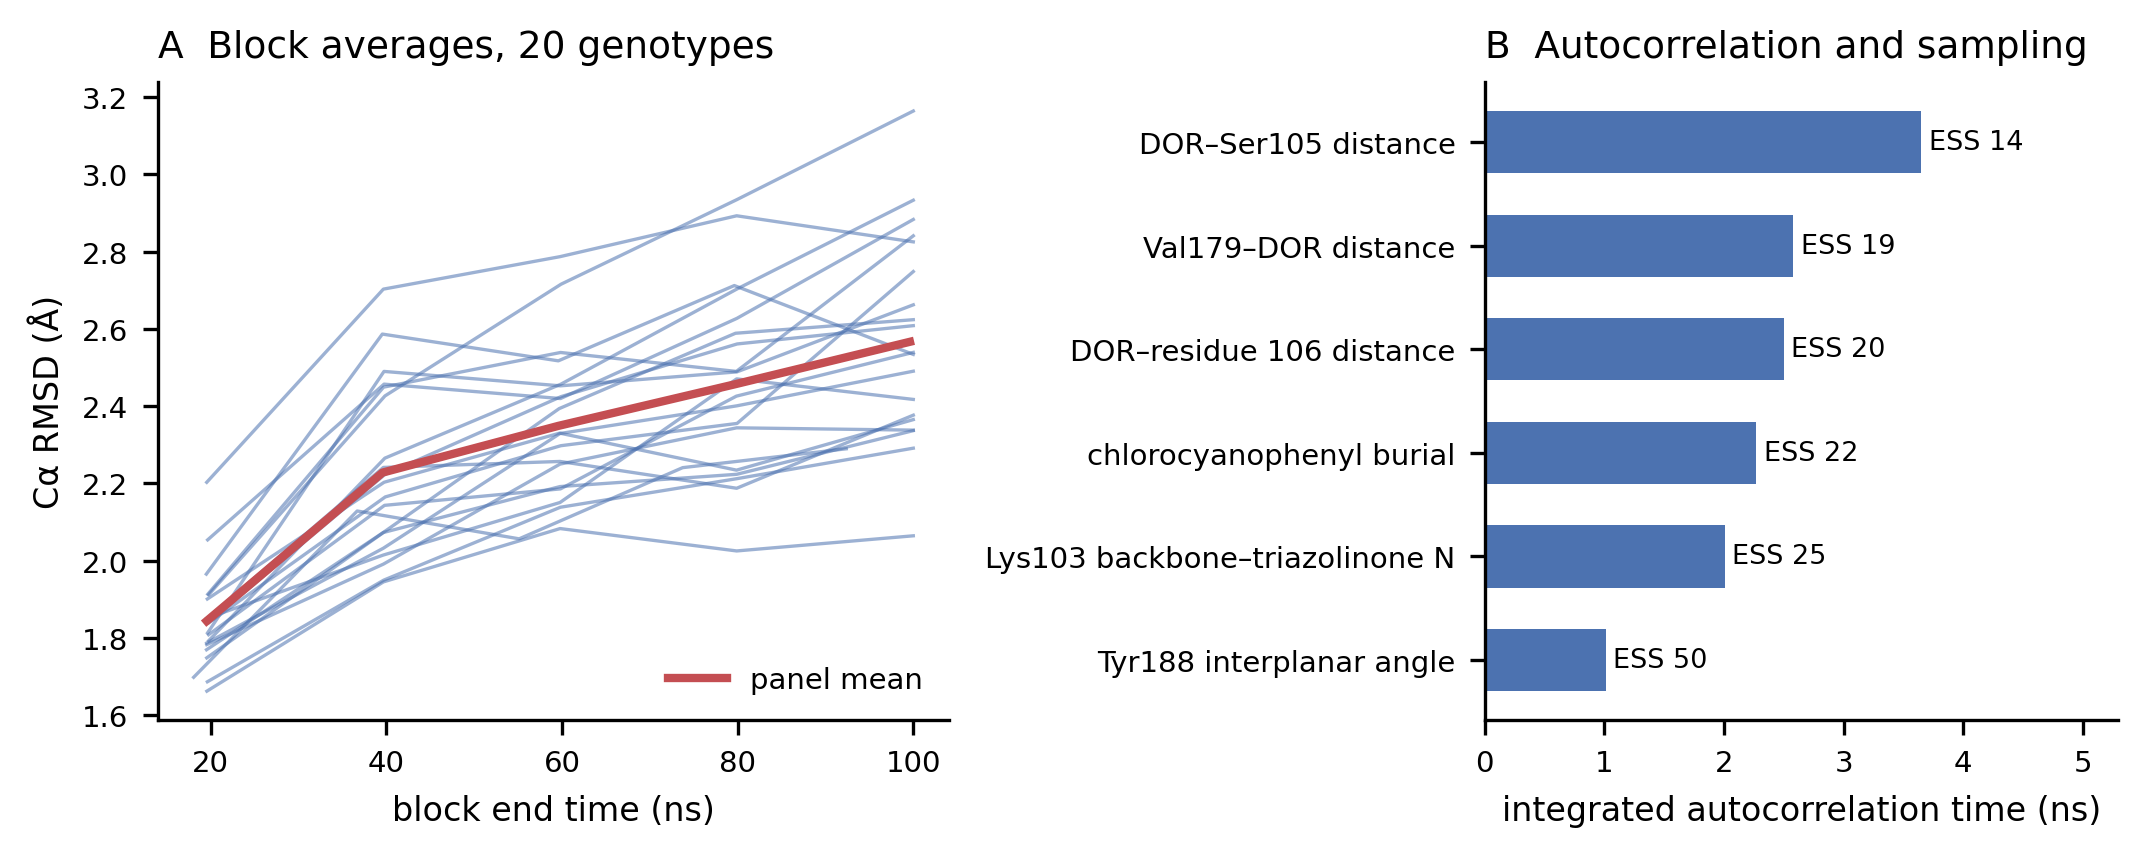
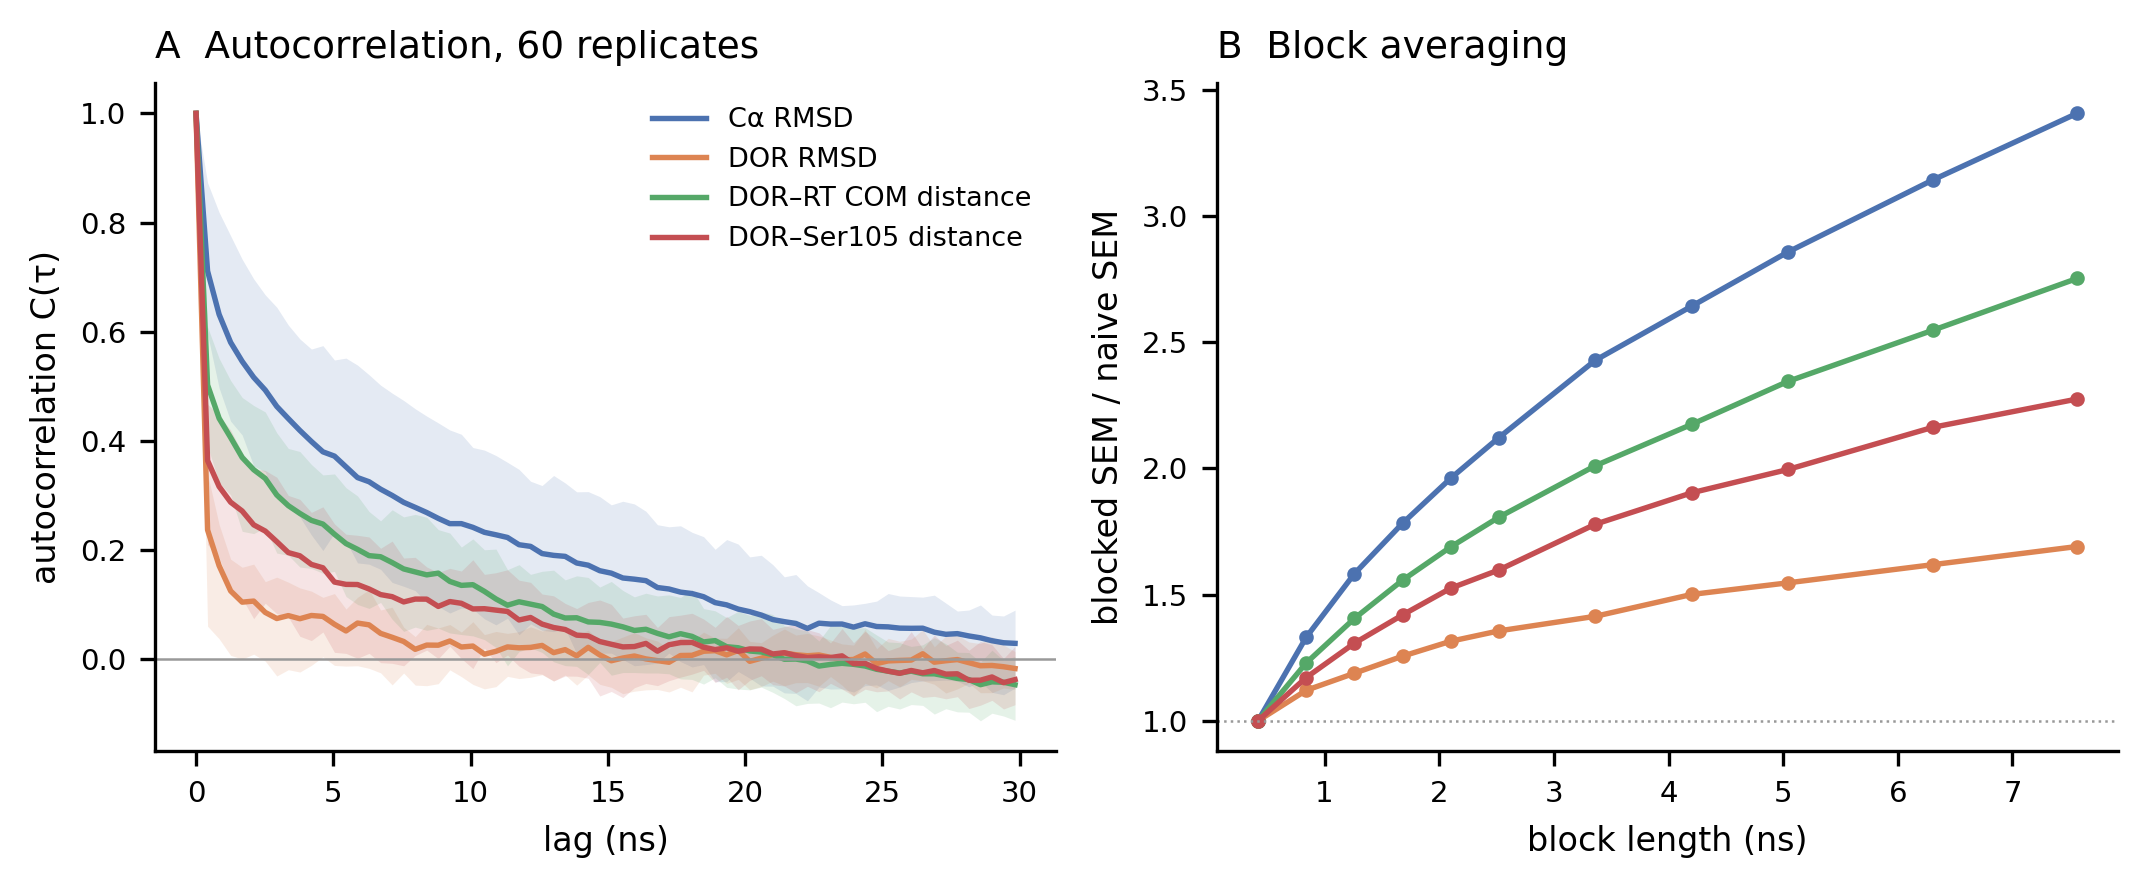
Rebuild Figure 3 as a real convergence diagnostic
The first version plotted block means against time, which shows drift and is
not what block averaging is. Block averaging cuts each series into blocks of
length n, takes the variance of the block means, and plots the resulting
standard error against n: for correlated data it rises and then plateaus, and
the plateau is the honest standard error. The autocorrelation panel likewise
showed a bar chart of tau rather than the function itself.

Panel A is now the normalised autocorrelation function against lag, over all
60 replicates, for four observables. Panel B is blocked SEM divided by naive
SEM against block length.

What it shows is not flattering and is worth stating. Nothing plateaus. DOR
RMSD is closest, levelling toward about 1.7x with its autocorrelation gone by
roughly 8 ns. Ca RMSD reaches 3.4x and is still climbing, and its
autocorrelation persists past 25 ns. So the ligand-local observables are near
converged on 100 ns while the protein-global ones are not, which is what the
manuscript already argues and what the reviewer suspected.

Block sizes are capped so each point averages at least ten blocks. With 180
frames a block of 45 leaves four, and the standard error of four numbers
cannot support reading a plateau; the first attempt ran to that range and the
apparent continued rise there was partly noise.

Also exported DOR's parameters as plain OpenMM ffxml for both charge models.
openff-toolkit is conda-forge only and not on PyPI, and Sherlock has no conda,
[…]

diff --git a/src/nnrti/cli/plot_supplementary_figures.py b/src/nnrti/cli/plot_supplementary_figures.py
@@ -22,6 +22,11 @@ ROOT = Path(__file__).resolve().parents[3]
 RES = ROOT / "results/analysis"
 #: unliganded crystal structures, for the reference line in Figure 5
 APO_CRYSTAL = (101.7, 103.8)
+#: Block lengths in frames. Capped so that every point still averages at
+#: least MIN_BLOCKS blocks: with 180 frames a block of 45 leaves only four,
+#: and the standard error of four numbers is too noisy to read a plateau off.
+MIN_BLOCKS = 10
+BLOCKS = [1, 2, 3, 4, 5, 6, 8, 10, 12, 15, 18]
 
 METRIC_LABEL = {
     "chl_ring_burial": "chlorocyanophenyl burial",
@@ -46,43 +51,95 @@ def _style():
     return plt
 
 
+#: per-frame observables worth a convergence diagnostic, with display labels
+TRACE_METRICS = {
+    "ca_rmsd_angstrom": "C\u03b1 RMSD",
+    "dor_rmsd_angstrom": "DOR RMSD",
+    "com_distance_angstrom": "DOR\u2013RT COM distance",
+    "ser105_min_angstrom": "DOR\u2013Ser105 distance",
+}
+
+
+def autocorrelation(x: np.ndarray) -> np.ndarray:
+    """Normalised autocorrelation function, C(0) = 1."""
+    x = np.asarray(x, dtype=float)
+    x = x - x.mean()
+    if np.allclose(x, 0):
+        return np.full(x.size, np.nan)
+    n = x.size
+    # FFT route; the series are short but this keeps it exact and quick
+    f = np.fft.rfft(x, 2 * n)
+    acf = np.fft.irfft(f * np.conjugate(f), 2 * n)[:n].real
+    return acf / acf[0]
+
+
+def block_sem(x: np.ndarray, block: int) -> float:
+    """Standard error from the means of non-overlapping blocks of `block`.
+
+    Flyvbjerg and Petersen: for correlated data this grows with block size and
+    plateaus once a block is longer than the correlation time. The plateau is
+    the honest standard error; the naive value at block = 1 is an
+    underestimate by the square root of the statistical inefficiency.
+    """
+    x = np.asarray(x, dtype=float)
+    m = x.size // block
+    if m < 2:
+        return np.nan
+    means = x[: m * block].reshape(m, block).mean(axis=1)
+    return float(means.std(ddof=1) / np.sqrt(m))
+
+
 def figure3(plt, out: Path) -> None:
-    blocks = pd.read_csv(RES / "md_convergence/tables/block_averages.csv")
-    summ = pd.read_csv(RES / "md_convergence/tables/autocorrelation_summary.csv")
+    tr = pd.read_csv(RES / "md_convergence/tables/frame_traces.csv")
+    dt = float(tr.total_ns.median() / tr.n_frames.median())      # ns per frame
 
-    fig, (ax1, ax2) = plt.subplots(1, 2, figsize=(7.2, 2.9),
-                                   gridspec_kw={"width_ratios": [1.25, 1]})
+    fig, (ax1, ax2) = plt.subplots(1, 2, figsize=(7.2, 3.0))
+    colours = ["#4C72B0", "#DD8452", "#55A868", "#C44E52"]
 
-    # A: block averages of Ca RMSD, one line per genotype, mean over replicates
-    g = (blocks.groupby(["mutation", "block_id"])
-         .agg(t=("t_end_ns", "mean"), v=("ca_rmsd_angstrom_mean", "mean"))
-         .reset_index())
-    for mut, s in g.groupby("mutation"):
-        ax1.plot(s.t, s.v, lw=0.8, alpha=0.55, color="#4C72B0")
-    pooled = g.groupby("block_id").agg(t=("t", "mean"), v=("v", "mean"))
-    ax1.plot(pooled.t, pooled.v, lw=2.0, color="#C44E52", label="panel mean")
-    ax1.set_xlabel("block end time (ns)")
-    ax1.set_ylabel("Cα RMSD (Å)")
-    ax1.set_title("A  Block averages, 20 genotypes", loc="left")
-    ax1.legend(frameon=False, loc="lower right")
+    n_series = 0
+    for (col, label), c in zip(TRACE_METRICS.items(), colours):
+        acfs, ratios = [], []
+        for _, s in tr.groupby(["safe_label", "replicate"]):
+            x = s.sort_values("frame_index")[col].to_numpy(dtype=float)
+            if x.size < 40 or np.allclose(x, x[0]):
+                continue
+            acfs.append(autocorrelation(x))
+            base = block_sem(x, 1)
+            usable = [b for b in BLOCKS if x.size // b >= MIN_BLOCKS]
+            if base and np.isfinite(base) and len(usable) == len(BLOCKS):
+                ratios.append([block_sem(x, b) / base for b in BLOCKS])
+        if not acfs:
+            continue
+        n_series = max(n_series, len(acfs))
+        L = min(len(a) for a in acfs)
+        A = np.vstack([a[:L] for a in acfs])
+        lag = np.arange(L) * dt
+        keep = lag <= 30
+        ax1.plot(lag[keep], np.nanmean(A, axis=0)[keep], color=c, lw=1.3, label=label)
+        ax1.fill_between(lag[keep],
+                         np.nanpercentile(A, 25, axis=0)[keep],
+                         np.nanpercentile(A, 75, axis=0)[keep],
+                         color=c, alpha=0.15, lw=0)
 
-    # B: autocorrelation time and effective sample size per observable
-    s = summ.sort_values("tau_ns_median")
-    y = np.arange(len(s))
-    ax2.barh(y, s.tau_ns_median, color="#4C72B0", height=0.6)
-    ax2.set_yticks(y)
-    ax2.set_yticklabels([METRIC_LABEL.get(m, m) for m in s.metric])
-    ax2.set_xlabel("integrated autocorrelation time (ns)")
-    ax2.set_title("B  Autocorrelation and sampling", loc="left")
-    for i, (t, e) in enumerate(zip(s.tau_ns_median, s.ess_median)):
-        ax2.text(t + 0.06, i, f"ESS {e:.0f}", va="center", fontsize=6.5)
-    ax2.set_xlim(0, s.tau_ns_median.max() * 1.45)
+        R = np.vstack([r for r in ratios if np.all(np.isfinite(r))])
+        ax2.plot(np.array(BLOCKS) * dt, R.mean(axis=0), color=c, lw=1.3,
+                 marker="o", ms=2.5, label=label)
+
+    ax1.axhline(0, color="0.6", lw=0.6)
+    ax1.set_xlabel("lag (ns)")
+    ax1.set_ylabel("autocorrelation C(\u03c4)")
+    ax1.set_title(f"A  Autocorrelation, {n_series} replicates", loc="left")
+    ax1.legend(frameon=False, fontsize=6.5)
+
+    ax2.axhline(1.0, color="0.6", lw=0.6, ls=":")
+    ax2.set_xlabel("block length (ns)")
+    ax2.set_ylabel("blocked SEM / naive SEM")
+    ax2.set_title("B  Block averaging", loc="left")
 
     fig.tight_layout()
     fig.savefig(out / "supplementary_figure_3_convergence.png")
     plt.close(fig)
-    print(f"  Figure 3: {len(g.mutation.unique())} genotypes, "
-          f"{len(s)} observables")
+    print(f"  Figure 3: {n_series} replicates, {len(TRACE_METRICS)} observables")
 
 
 def figure4(plt, out: Path) -> None:

diff --git a/ops/slurm/cluster/export_ligand_ffxml.py b/ops/slurm/cluster/export_ligand_ffxml.py
@@ -1,0 +1,59 @@
+#!/usr/bin/env python3
+"""Write DOR's OpenMM force-field XML so the cluster never needs openff-toolkit.
+
+openff-toolkit is distributed through conda-forge only; it is not on PyPI, and
+Sherlock has no conda. The dependency exists solely to turn DOR into OpenMM
+parameters, and DOR is the same molecule in every system, so the parameters can
+be generated once here and shipped as an ffxml that plain OpenMM can load.
+
+Usage
+-----
+    PYTHONPATH=src python ops/slurm/cluster/export_ligand_ffxml.py \
+        data/ligands/dor_am1bcc.sdf data/ligands/dor_am1bcc.xml
+"""
+import sys
+from pathlib import Path
+
+sys.path.insert(0, str(Path(__file__).resolve().parents[3] / "src"))
+
+
+def main() -> int:
+    from openmmforcefields.generators import SMIRNOFFTemplateGenerator
+    from nnrti.md.openmm.ligand import SMIRNOFF_FORCEFIELD, load_ligand_molecule
+
+    src, dst = Path(sys.argv[1]), Path(sys.argv[2])
+    charge_method = sys.argv[3] if len(sys.argv) > 3 else None
+    if charge_method:
+        mol = load_ligand_molecule(src, charge_method)
+    else:
+        # The SDF already carries its charges. load_ligand_molecule would call
+        # assign_partial_charges and overwrite them, which silently produced
+        # two identical ffxmls the first time this was run.
+        from openff.toolkit.topology import Molecule
+        mol = Molecule.from_file(str(src), allow_undefined_stereo=True)
+        if mol.partial_charges is None:
+            raise SystemExit(f"{src} carries no partial charges; "
+                             "pass a charge method as the third argument")
+    import numpy as np
+    q = np.array([float(x.m) for x in mol.partial_charges])
+    print(f"ligand charges: mean |q| {np.abs(q).mean():.4f} e, "
+          f"net {q.sum():+.2e}")
+    gen = SMIRNOFFTemplateGenerator(molecules=[mol],
+                                    forcefield=SMIRNOFF_FORCEFIELD)
+    ffxml = gen.generate_residue_template(mol)
+    if ffxml is None:
+        ffxml = gen._ffxml_cache.get(mol.to_smiles())
+    if not ffxml:
+        raise SystemExit("generator produced no ffxml")
+    dst.write_text(ffxml)
+
+    # load it back through plain OpenMM, which is all the cluster will have
+    import openmm.app as app
+    ff = app.ForceField("amber14/protein.ff14SB.xml", "amber14/tip3p.xml", str(dst))
+    print(f"wrote {dst} ({len(ffxml)} chars); "
+          f"plain OpenMM ForceField loads it, {len(ff._templates)} templates")
+    return 0
+
+
+if __name__ == "__main__":
+    raise SystemExit(main())
